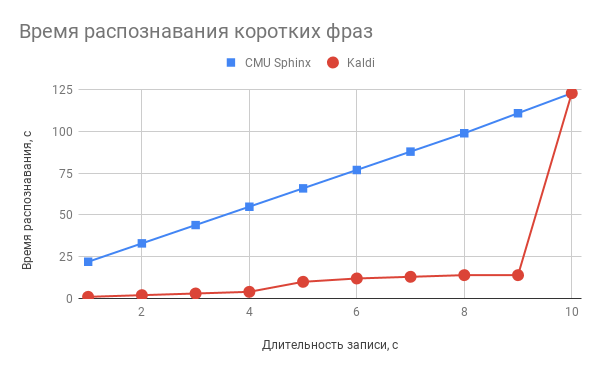
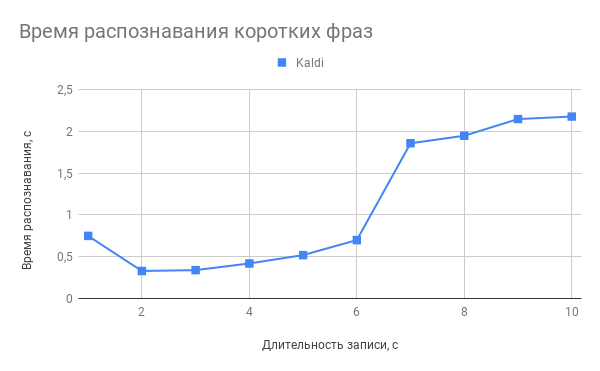
результаты экспериментов

diff --git a/chapters/mark.tex b/chapters/mark.tex
@@ -1,34 +1,31 @@
 \chapter{ПОКАЗАТЕЛИ ПРОИЗВОДИТЕЛЬНОСТИ}
 
-Далее на рисунках~\ref{fig:asr:time:short}--\ref{fig:asr:mem:long} приводятся
-результаты экспериментов.
+\section{Проведение экспериментов}
+Для проведения экспериментов используется компьюетр со следующими характеристиками:
+\begin{itemize}
+    \item CPU Intel(R) Core(TM) i3-4160 CPU @ 3.60GHz;
+    \item Оперативная память 8Гб;
+    \item Операционная система ubuntu 18.04.
+\end{itemize}
 
-\section{Временные показатели}
+В рамках экспериметов не учитывается время инициализации, а только
+процесс чтения данных и их распознавание.
+
+\section{Результаты экспериментов}
 На рисунках~\ref{fig:asr:time:short}--\ref{fig:asr:time:long} представлены
 результаты экспериментов, на которых изображены графики зависимости времени
 распознавания в зависимости от длительности аудио-файла.
 
-\pic[h!][0.6]{short.png}{asr:time:short}{Зависимость времени распознавания от длительности коротких фразы}
-\pic[h!][0.6]{short.png}{asr:time:long}{Зависимость времени распознавания от длительности длинных фразы}
-\newpage
-\section{Пространственные показатели}
-На рисунках~\ref{fig:asr:mem:short}--\ref{fig:asr:mem:long} представлены
-результаты экспериментов, на которых изображены графики зависимости потребления
-памяти в зависимости от длительности аудио-файла.
-
-\pic[h!][0.6]{short.png}{asr:mem:short}{Зависимость потребление памяти от длительности коротких фраз}
-\pic[h!][0.6]{short.png}{asr:mem:long}{Зависимость потребления памяти от длительности длинных фразы}
+\pic[H][0.5]{short.png}{asr:time:short}{Зависимость времени распознавания от длительности коротких фразы}
+\pic[H][0.5]{long.png}{asr:time:long}{Зависимость времени распознавания от длительности длинных фразы}
 
 \section{Оценка полученных результатов}
-В результате проведённых экспериментов получены графики~\ref{fig:asr:time:short}--\ref{fig:asr:mem:long},
+В результате проведённых экспериментов получены графики~\ref{fig:asr:time:short}--\ref{fig:asr:time:long},
 которые показывают, что разработанная система использует умеренно количество
 ресурсов, и допускается её использование совместно с другими приложениями,
 однако запуск других ресурсоёмких приложений совместно с данными не рекомендуется,
 по скольку потребление памяти \textit{ASR} могут резко возрасти при работе
 с большим количество рабочих потоков.
-
-Каждый поток в среднем требует \dots MB для работы с короткими фразами и
-\dots MB для длинных фраз.
 
 Полученные результаты удовлетворяют установленным требованиям и позволяют
 внедрить в эксплуатацию разработанную подсистему.

diff --git a/chapters/choose.tex b/chapters/choose.tex
@@ -23,11 +23,7 @@
         \item Короткие фразы.
         \item Длинные фразы.
     \end{itemize}
-    \item Потребление ресурсов.
-    \begin{itemize}
-        \item Память.
-        \item Нагрузка на процессор.
-    \end{itemize}
+    \item Потребление памяти.
     \item Точность распозвания.
     \begin{itemize}
         \item Для коротких фраз.
@@ -61,21 +57,28 @@
 они применяются для взаимодействия с подсистемой интерактивного голосового меню.
 
 \section{Результаты экспериментов}
-На рисунках~\ref{fig:test:speed:short}--\ref{fig:test:cpu:long} результаты
+На рисунках~\ref{fig:test:time:short}--\ref{fig:test:time:long} результаты
 экспериментов, на которых представлены графики, показывающие интересующие нас
-характеристики.
+характеристики. Время распознавания \textit{CMU Sphinx} с использованием
+грамматики приблизительно равно времени распозвания \textit{Kaldi}.
 
-\pic[H][0.7]{short.png}{test:speed:short}{Время распозвания коротких фраз}
-\pic[H][0.7]{short.png}{test:speed:long}{Время распозвания длинных фраз}
-\pic[H][0.7]{short.png}{test:mem:short}{Потребление памяти на коротких фразах}
-\pic[H][0.7]{short.png}{test:mem:long}{Потребление памяти на длинных фразах}
-\pic[H][0.7]{short.png}{test:cpu:short}{Загрузка процессора на коротких фразах}
-\pic[H][0.7]{short.png}{test:cpu:long}{Загрузка процессора на длинных фразах}
+\pic[H][0.7]{time-short.png}{test:time:short}{Время распозвания коротких фраз}
+\pic[H][0.7]{time-long.png}{test:time:long}{Время распозвания длинных фраз}
+
+\pic[H][0.7]{accur-short.png}{test:accur:short}{Точность распозвания коротких фраз}
+\pic[H][0.7]{accur-long.png}{test:accur:long}{Точность распозвания длинных фраз}
 
 \section{Оценка полученных результатов}
 
-Как видно по графикам~\ref{fig:test:speed:short}--\ref{fig:test:cpu:long}~---~\textit{CMU Sphinx}
-уступает по проиводительности \textit{Kaldi} по всем характеристиками.
+Как видно по графикам~\ref{fig:test:time:short}--\ref{fig:test:accur:long}~---~\textit{CMU Sphinx}
+уступает по производительности и точности \textit{Kaldi}. Также потребление памяти после
+запуска состовляет:
+\begin{itemize}
+    \item \textit{Kaldi}~---~750~MB;
+    \item \textit{CMU Sphinx} с загрузкой полной языковой модели~---~2500MB;
+    \item \textit{CMU Sphinx} с использованием грамматики~---~600MB;
+\end{itemize}
+
 Из чего следует, что для организации подсистемы будет использован \textit{Kaldi},
 который, на основе полученных данных, также позволяет реализовать распозвание речи
 в реальном времени.
